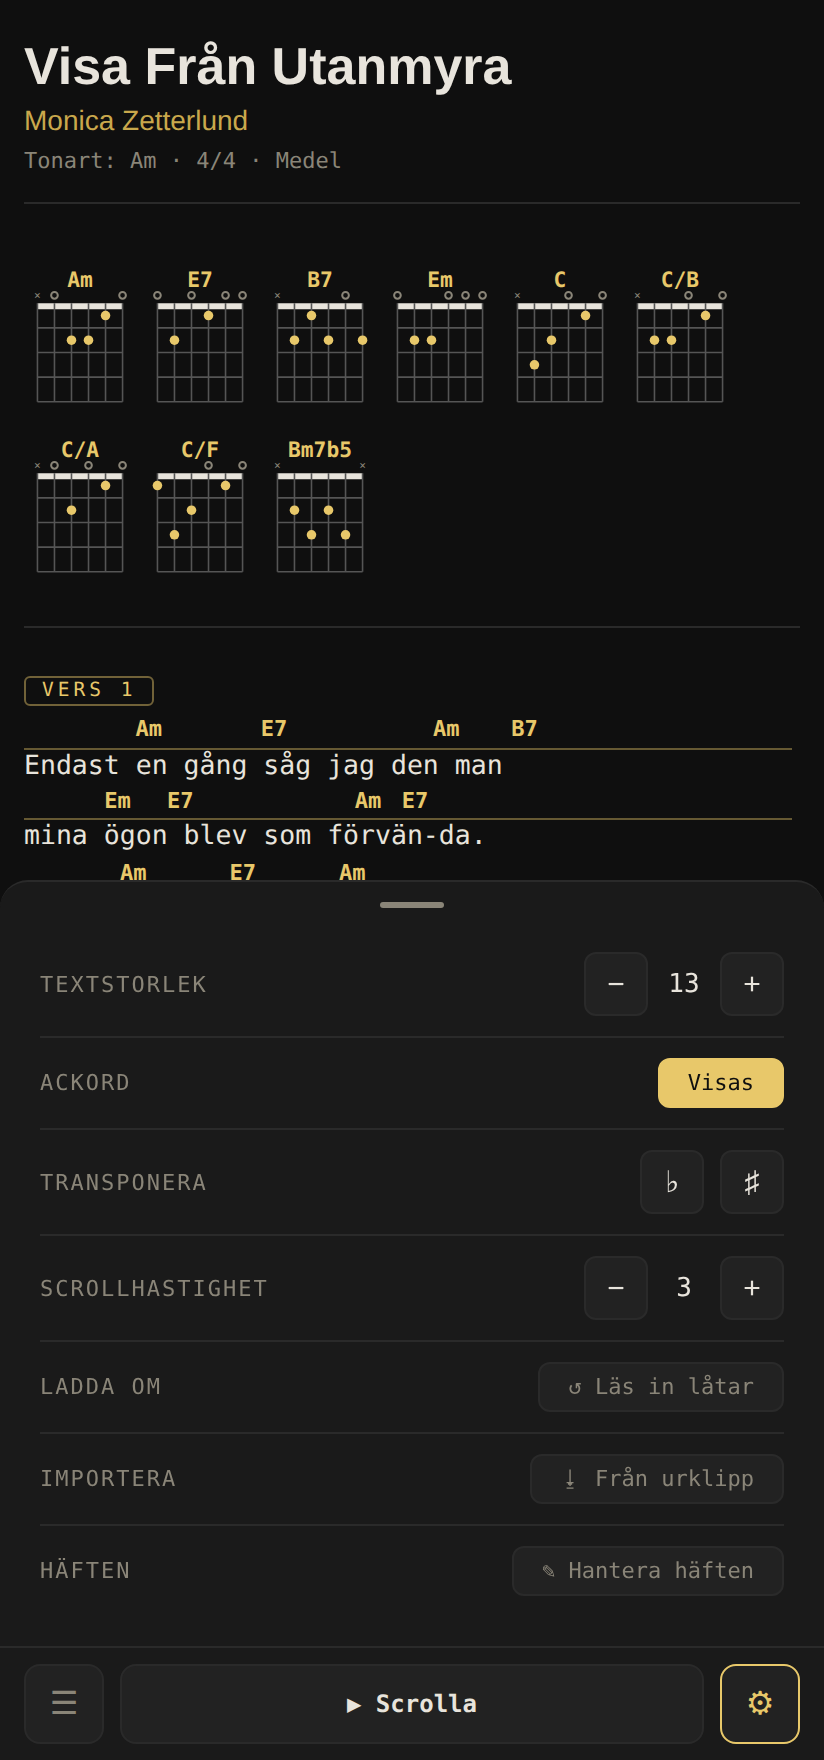
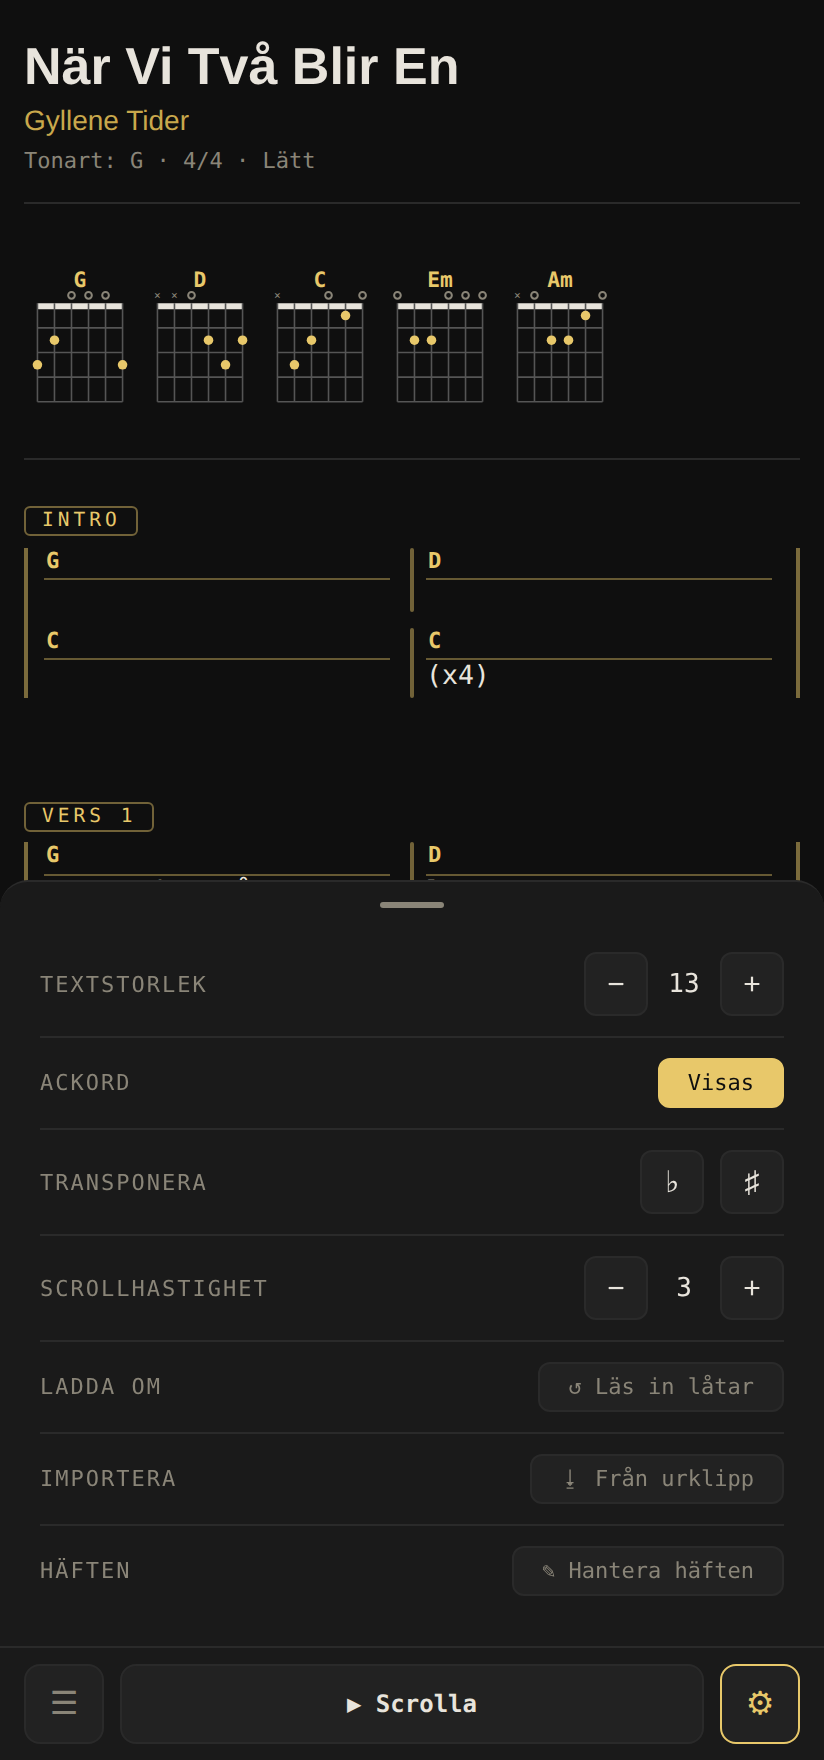
Fixa mobillayout: horisontellt spill och ackordplacering vid radbrytning (#6)
* Lägg till skärmdumpar i README

Fem skärmdumpar tagna mot den lokala servern, inflätade i de
avsnitt de illustrerar i stället för som ett separat galleri:

- desktop-huvudvy — hero-bild efter ingressen: häftesväljare,
  låtlista och den taktbaserade layouten med ackorddiagram
- ackordgrepp — greppvariant-popupen, i Visning-avsnittet
- mobil-huvudvy + installningar — sida vid sida i Gränssnitt-
  avsnittet (HTML-tabell, eftersom mobilbilderna är höga)
- import — importdialogen med både ackordrad-ovanför-text och
  inline-hakparenteser tolkade, i Import-avsnittet

Inga app-filer ändrade, så CACHE_NAME behöver ingen bump
(npm run cache:check är grön). 568 kB totalt.

* Fixa horisontellt spill på mobil för taktbaserade låtar

"När Vi Två Blir En" tvingade sidan 77 px bredare än skärmen på mobil,
vilket kapade sångtexten i högerkanten (22 textrader hamnade utanför
vyn) och krävde att man scrollade i sidled. Två samverkande orsaker:

1. alignMeasureColumns() mäter varje takts innehållsbredd och låser
   den med inline `flex: 0 0 Npx` så att takterna ligger i linje mellan
   raderna. Inline-stil vinner över stylesheet, så den slog ut
   mobilreglerna i @media (max-width: 768px) som annars låter takterna
   stretcha och radbrytas — trots att CSS-kommentaren där uttryckligen
   beskriver det avsedda 2+2-beteendet. Funktionen rensar nu inline-
   stilarna i stället för att sätta dem när vyn är smal.

2. .main är ett flex-item i .app och hade default `min-width: auto`,
[…]

diff --git a/app.js b/app.js
@@ -4,6 +4,7 @@ import {
   transposeChordName, parseChordLine,
   escHtml, renderChordDiagrams, lookupChord,
   getAllVoicings, chordSVG,
+  renderChordFlow,
   parseUgImportText,
 } from './chords.js';
 import {
@@ -20,6 +21,9 @@ const COL = {
 };
 
 const COL_CLASSES = [' columns-1c', ' columns-2c'];
+
+// Speglar brytpunkten i @media (max-width: 768px) i style.css
+const MOBILE_BREAKPOINT = 768;
 
 // Songs loaded dynamically from songs/ folder
 let songs = [];
@@ -321,6 +325,15 @@ function setupGlobalEvents() {
     searchInput.addEventListener('input', (e) => renderSongList(e.target.value));
   }
 
+  // Taktbredderna sätts som inline-stil utifrån skärmbredden, så de måste
+  // räknas om när vyn ändrar storlek — annars ligger t.ex. desktopbredderna
+  // kvar efter att telefonen roterats till porträtt.
+  let resizeTimer = null;
+  window.addEventListener('resize', () => {
+    clearTimeout(resizeTimer);
+    resizeTimer = setTimeout(alignMeasureColumns, 150);
+  });
+
   // Återaktivera Wake Lock om fliken blir synlig igen under scroll
   document.addEventListener('visibilitychange', async () => {
     if (scrollActive && document.visibilityState === 'visible') {
@@ -330,8 +343,19 @@ function setupGlobalEvents() {
 }
 
 function alignMeasureColumns() {
+  // Kolumnjusteringen låser varje takt till sitt innehålls bredd. På smala
+  // skärmar ryms inte de bredderna, och eftersom de sätts som inline-stil
+  // vinner de över mobilreglerna i @media (max-width: 768px) som annars låter
+  // takterna stretcha och radbrytas — resultatet blev en rad som spillde
+  // utanför skärmen. Rensa inline-stilarna där och låt CSS:en styra.
+  const isNarrow = window.innerWidth <= MOBILE_BREAKPOINT;
+
   document.querySelectorAll('.song-block').forEach(block => {
     const cells = block.querySelectorAll('.cl-abs-pair[data-mi]');
+    if (isNarrow) {
+      cells.forEach(c => { c.style.flex = ''; c.style.minWidth = ''; });
+      return;
+    }
     // Sätt flex: 0 0 auto så varje cell mäter sitt eget innehåll (inte flex:1-medelvärdet)
     cells.forEach(c => { c.style.flex = '0 0 auto'; c.style.minWidth = ''; });
     
@@ -640,15 +664,20 @@ function renderSong() {
           html += `</div>`;
         } else {
           html += `<div class="cl-abs-pair">`;
-          html += `<div class="cl-abs-chord-row">`;
-          chords.forEach(ch => {
-            const name = transposeSemitones !== 0
-              ? transposeChordName(ch.name, transposeSemitones) : ch.name;
-            html += `<span class="chord-tag" style="left:${ch.pos}ch"><span>${escHtml(name)}</span></span>`;
-          });
-          html += `</div>`;
           if (lyric.trim()) {
-            html += `<div class="cl-display-lyric">${escHtml(lyric)}</div>`;
+            // Ackorden vävs in i textflödet så att de följer med sin stavelse
+            // när raden radbryts (se renderChordFlow i chords.js).
+            html += `<div class="cl-flow">${renderChordFlow(lyric, chords, transposeSemitones)}</div>`;
+          } else {
+            // Ackordrad utan text (intro, mellanspel) — inget flöde att haka i,
+            // så här behålls den teckenpositionerade ackordraden.
+            html += `<div class="cl-abs-chord-row">`;
+            chords.forEach(ch => {
+              const name = transposeSemitones !== 0
+                ? transposeChordName(ch.name, transposeSemitones) : ch.name;
+              html += `<span class="chord-tag" style="left:${ch.pos}ch"><span>${escHtml(name)}</span></span>`;
+            });
+            html += `</div>`;
           }
           html += `</div>`;
         }

diff --git a/tests/chords.test.js b/tests/chords.test.js
@@ -7,6 +7,7 @@ import {
   getUniqueChords,
   isUgChordLine, parseUgImportText,
   isUgInlineChordLine, parseUgInlineChordLine,
+  renderChordFlow,
 } from '../chords.js';
 
 // ─── transposeChordName ───
@@ -440,5 +441,63 @@ describe('parseUgImportText with inline chords', () => {
     const result = parseUgImportText(text);
     assert.deepEqual(result.sections.map(s => s.label), ['Vers 1', 'Refräng']);
     assert.equal(result.sections[1].lines[0].l, 'Praise God from whom all blessings flow');
+  });
+});
+
+// ─── renderChordFlow ───
+
+describe('renderChordFlow', () => {
+  const flow = (lyric, chordStr, semi = 0) =>
+    renderChordFlow(lyric, parseChordLine(chordStr), semi);
+  // Plockar bort hela ankarelementen (inklusive ackordnamnet inuti) så att
+  // bara sångtexten blir kvar — den ska alltid vara oförändrad.
+  const plain = html =>
+    html.replace(/<span class="cl-anchor">.*?<\/span><\/span><\/span>/g, '');
+
+  it('väver in ackorden vid rätt teckenposition', () => {
+    const html = flow('I en evighet levde jag', '     C       F');
+    assert.ok(html.startsWith('I en <span class="cl-anchor">'));
+    assert.ok(html.includes('>C<'));
+    assert.ok(html.includes('evighet '));
+  });
+
+  it('bevarar textinnehållet exakt', () => {
+    const lyric = 'I en evighet levde jag som om du inte fanns';
+    assert.equal(plain(flow(lyric, '     C       F         G7')), lyric);
+  });
+
+  it('behåller ackord vars offset pekar bortom radens slut', () => {
+    // Ackordraden är längre än texten — G7 får inte tappas bort (den gamla
+    // renderingen klippte bort ackord som hamnade utanför radbredden)
+    const html = flow('kort text', '     C                   G7');
+    assert.ok(html.includes('>C<'));
+    assert.ok(html.includes('>G7<'));
+    assert.equal(plain(html), 'kort text');
+  });
+
+  it('lägger ackord i textordning även vid udda positioner', () => {
+    const html = flow('abcdef', '  X  Y');
+    assert.ok(html.indexOf('>X<') < html.indexOf('>Y<'));
+  });
+
+  it('returnerar ren text när raden saknar ackord', () => {
+    assert.equal(flow('bara text', ''), 'bara text');
+  });
+
+  it('transponerar ackordnamnen', () => {
+    const html = flow('I en evighet', '     C', 2);
+    assert.ok(html.includes('>D<'));
+    assert.ok(!html.includes('>C<'));
+  });
+
+  it('escapar html i både text och ackordnamn', () => {
+    const html = renderChordFlow('a<b>c', [{ name: '<X>', pos: 1 }]);
+    assert.ok(!html.includes('<b>'));
+    assert.ok(html.includes('&lt;b&gt;'));
+    assert.ok(html.includes('&lt;X&gt;'));
+  });
+
+  it('hanterar tom text utan att krascha', () => {
+    assert.equal(plain(renderChordFlow('', [])), '');
   });
 });

diff --git a/chords.js b/chords.js
@@ -232,6 +232,40 @@ export function parseUgImportText(rawText) {
   return { ...detected, sections: sections.filter(s => s.lines.length > 0) };
 }
 
+// Bygger en textrad där ackorden ligger som nollbreda ankare inne i själva
+// texten, i stället för på en egen rad ovanför den.
+//
+// Den gamla lösningen ritade ackorden absolutpositionerade på teckenoffset
+// (`left: 23ch`) i en ackordrad som alltid är exakt en rad hög. Så fort
+// textraden radbröts kände ackorden inte till brytpunkten: de som hörde till
+// den ombrutna delen blev kvar på första radens ackordrad, och de som hamnade
+// bortom radbredden klipptes bort helt.
+//
+// Ankaret här har noll bredd och deltar i det normala textflödet, så det följer
+// med sin stavelse till nästa rad vid en radbrytning. Ackordnamnet hängs upp
+// absolut ovanför ankaret (se .cl-anchor i style.css).
+//
+// chords är utdata från parseChordLine(): [{ name, pos }] med pos i tecken.
+export function renderChordFlow(lyric, chords, transposeSemitones = 0) {
+  const text = lyric || '';
+  let html = '';
+  let cursor = 0;
+
+  chords.forEach(ch => {
+    // Ackordoffset kan peka bortom radens slut (ackordraden är ibland längre
+    // än texten) — klamra då till slutet i stället för att tappa ackordet.
+    const pos = Math.max(cursor, Math.min(ch.pos, text.length));
+    if (pos > cursor) html += escHtml(text.slice(cursor, pos));
+    const name = transposeSemitones !== 0
+      ? transposeChordName(ch.name, transposeSemitones) : ch.name;
+    html += `<span class="cl-anchor"><span class="chord-tag"><span>${escHtml(name)}</span></span></span>`;
+    cursor = pos;
+  });
+
+  html += escHtml(text.slice(cursor));
+  return html;
+}
+
 // Chord library: [strings low E to high E] = fret number, 0=open, -1=muted
 // Format: { frets: [E,A,D,G,B,e], fingers: [f,f,f,f,f,f], baseFret: 1 }
 // Varje kategori nedan täcker alla 12 grundtoner — en stavning per grundton

diff --git a/style.css b/style.css
@@ -178,6 +178,10 @@ body {
 
 .main {
   flex: 1;
+  /* Flex-item har min-width: auto som default, vilket gör att .main vägrar
+     krympa under sitt min-content-mått. En bred låtrad kunde därför tvinga
+     hela sidan bredare än skärmen på mobil. */
+  min-width: 0;
   margin-left: 280px;
   transition: margin-left 0.25s ease;
   min-height: 100vh;
@@ -572,6 +576,40 @@ body {
 .hide-chords .chord-name { visibility: hidden; }
 .hide-chords .cl-chord-only { display: none; }
 .hide-chords .chord-diagrams-strip { display: none; }
+
+/* ─── Textrad med inflätade ackord (fritt format) ─── */
+/* Ackorden ligger som nollbreda ankare i textflödet, se renderChordFlow i
+   chords.js. Radhöjden ger plats åt ett ackord ovanför VARJE ombruten rad,
+   och overline ritar linjen under ackorden — till skillnad från en border
+   upprepas den automatiskt per radbrytning. */
+.cl-flow {
+  white-space: pre-wrap;
+  overflow-wrap: break-word;
+  line-height: 2.5;
+  text-decoration: overline;
+  text-decoration-color: rgba(232,200,106,0.15);
+  text-decoration-thickness: 1px;
+  text-decoration-skip-ink: none;
+}
+
+.cl-anchor {
+  position: relative;
+  display: inline;
+}
+
+.cl-anchor .chord-tag {
+  top: auto;
+  bottom: 100%;
+  left: 0;
+  line-height: 1.2;
+}
+
+/* Dolda ackord: ta bort både ackorden och utrymmet de reserverar */
+.hide-chords .cl-flow {
+  line-height: 1.5;
+  text-decoration: none;
+}
+.hide-chords .cl-anchor .chord-tag { display: none; }
 
 .chord-tag {
   position: absolute;

diff --git a/sw.js b/sw.js
@@ -1,6 +1,6 @@
 // ─── Låtbok — Service Worker ───
 
-const CACHE_NAME = 'latbok-b31734c9';
+const CACHE_NAME = 'latbok-08c02810';
 
 const PRECACHE_URLS = [
   './',

diff --git a/README.md b/README.md
@@ -35,7 +35,7 @@ Alla inställningar sparas lokalt på enheten.
 <td width="50%"><img src="docs/screenshots/installningar.png" alt="Inställningsbladet"></td>
 </tr>
 <tr>
-<td><em>Mobilvy — ackord över text och grepp för låtens ackord</em></td>
+<td><em>Mobilvy — en 4-taktersrad ombruten till 2+2</em></td>
 <td><em>Inställningsbladet (⚙)</em></td>
 </tr>
 </table>
